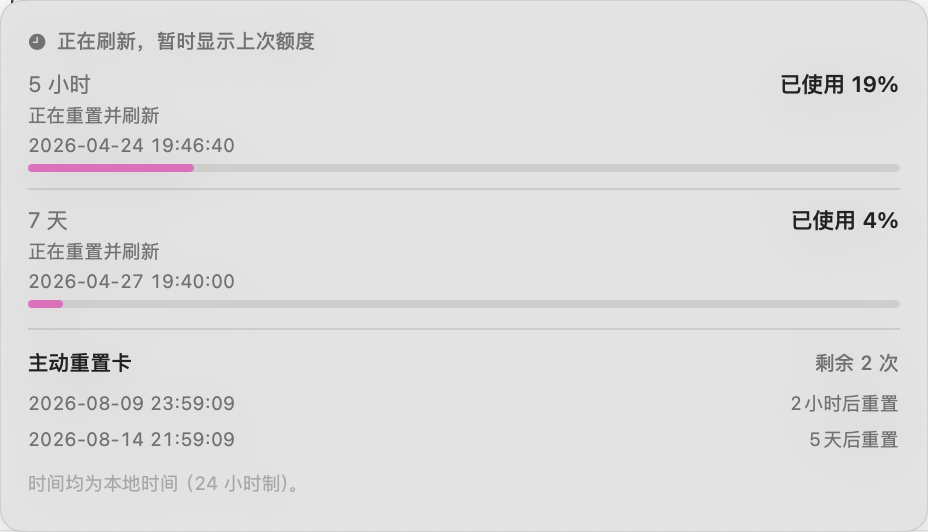
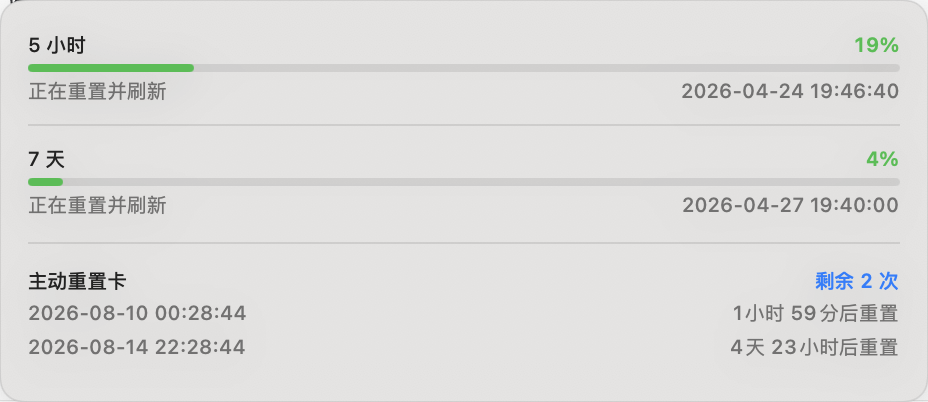
Align Codex widget details with menu quota rows

diff --git a/QuotaMonitor/App/CodexQuotaOverlayView.swift b/QuotaMonitor/App/CodexQuotaOverlayView.swift
@@ -141,11 +141,6 @@ struct CodexQuotaOverlayDetailsView: View {
 
     let onHoverChanged: (Bool) -> Void
 
-    private let progressAccent = Color(
-        red: 0.94,
-        green: 0.46,
-        blue: 0.77)
-
     var body: some View {
         TimelineView(.periodic(from: .now, by: 60)) { context in
             let presentation = CodexQuotaOverlayPresentation.make(
@@ -160,11 +155,6 @@ struct CodexQuotaOverlayDetailsView: View {
 
             ScrollView(.vertical) {
                 VStack(alignment: .leading, spacing: 0) {
-                    if presentation.isCached {
-                        cachedNotice
-                            .padding(.bottom, 8)
-                    }
-
                     if let fiveHour = presentation.fiveHour {
                         quotaWindow(
                             title: L10n.quotaCardTitle5h,
@@ -190,11 +180,6 @@ struct CodexQuotaOverlayDetailsView: View {
                             resetCredits,
                             now: context.date)
                     }
-
-                    Text(L10n.codexOverlayLocalTimeNote)
-                        .font(.system(size: 9.5, weight: .regular))
-                        .foregroundStyle(.tertiary)
-                        .padding(.top, 10)
                 }
                 .padding(14)
                 .frame(maxWidth: .infinity, alignment: .topLeading)
@@ -220,82 +205,61 @@ struct CodexQuotaOverlayDetailsView: View {
         }
     }
 
-    private var cachedNotice: some View {
-        HStack(spacing: 5) {
-            Image(systemName: "clock.fill")
-                .font(.system(size: 8, weight: .semibold))
-            Text(L10n.codexOverlayDetailsCachedNotice)
-                .font(.system(size: 10, weight: .medium))
-        }
-        .foregroundStyle(.secondary)
-    }
-
     private func quotaWindow(
         title: String,
         metric: CodexQuotaOverlayMetric,
         now: Date
     ) -> some View {
         VStack(alignment: .leading, spacing: 3) {
-            HStack(spacing: 8) {
+            HStack(spacing: 6) {
                 Text(title)
-                    .foregroundStyle(.secondary)
-                Spacer(minLength: 8)
-                Text(metric.localizedPercentLabel)
-                    .fontWeight(.semibold)
-                    .foregroundStyle(.primary)
+                    .font(.caption.weight(.medium))
+                Spacer()
+                Text("\(metric.percent)%")
+                    .font(.caption.monospacedDigit().weight(.semibold))
+                    .foregroundStyle(quotaTintColor(metric))
+                    .accessibilityLabel(metric.localizedPercentLabel)
             }
-            .font(.system(size: 11))
 
-            Text(resetCountdown(for: metric, now: now))
-                .font(.system(size: 9.5).monospacedDigit())
-                .foregroundStyle(.secondary)
-                .lineLimit(1)
+            QuotaUsageProgressBar(
+                value: Double(metric.percent) / 100,
+                usedPercent: Double(metric.usedPercent),
+                accessibilityText: metric.localizedPercentLabel)
 
-            Text(CodexQuotaOverlayTimeFormatting.localDateTime(
-                metric.resetAt))
-            .font(.system(size: 9.5).monospacedDigit())
+            HStack(spacing: 4) {
+                Text(resetCountdown(for: metric, now: now))
+                Spacer(minLength: 8)
+                Text(CodexQuotaOverlayTimeFormatting.localDateTime(
+                    metric.resetAt))
+            }
+            .font(.caption2)
             .foregroundStyle(.secondary)
             .lineLimit(1)
-
-            GeometryReader { geometry in
-                ZStack(alignment: .leading) {
-                    Capsule()
-                        .fill(.primary.opacity(0.10))
-                    Capsule()
-                        .fill(progressAccent)
-                        .frame(
-                            width: geometry.size.width
-                                * CGFloat(metric.percent) / 100)
-                }
-            }
-            .frame(height: 4)
-            .accessibilityElement()
-            .accessibilityLabel(metric.localizedPercentLabel)
         }
+        .padding(.vertical, 2)
     }
 
     private func resetCreditsSection(
         _ resetCredits: CodexQuotaOverlayResetCreditsPresentation,
         now: Date
     ) -> some View {
-        VStack(alignment: .leading, spacing: 0) {
-            HStack(spacing: 8) {
+        VStack(alignment: .leading, spacing: 3) {
+            HStack(spacing: 6) {
                 Text(L10n.codexResetCardsTitle)
-                    .font(.system(size: 10.5, weight: .semibold))
-                Spacer(minLength: 8)
+                    .font(.caption.weight(.medium))
+                Spacer()
                 Text(L10n.codexResetCardsAvailable(
                     resetCredits.availableCount))
-                    .font(.system(size: 10, weight: .medium).monospacedDigit())
-                    .foregroundStyle(.secondary)
+                    .font(.caption.monospacedDigit().weight(.semibold))
+                    .foregroundStyle(.blue)
             }
 
             if resetCredits.expirations.isEmpty {
                 Text(L10n.codexResetCardsExpiryUnavailable)
-                    .font(.system(size: 9.5))
-                    .foregroundStyle(.tertiary)
-                    .padding(.top, 6)
+                    .font(.caption2)
+                    .foregroundStyle(.secondary)
             } else {
-                VStack(spacing: 6) {
+                VStack(spacing: 4) {
                     ForEach(
                         Array(resetCredits.expirations.enumerated()),
                         id: \.offset
@@ -306,13 +270,18 @@ struct CodexQuotaOverlayDetailsView: View {
                             Spacer(minLength: 8)
                             Text(resetCountdown(to: expiration, now: now))
                         }
-                        .font(.system(size: 9.5).monospacedDigit())
+                        .font(.caption2)
                         .foregroundStyle(.secondary)
                     }
                 }
-                .padding(.top, 8)
             }
         }
+        .padding(.vertical, 2)
+    }
+
+    private func quotaTintColor(_ metric: CodexQuotaOverlayMetric) -> Color {
+        QuotaUsageStyle.tintColor(
+            forUsedPercent: Double(metric.usedPercent))
     }
 
     private func resetCountdown(

diff --git a/Tests/QuotaMonitorTests/CodexQuotaOverlayTests.swift b/Tests/QuotaMonitorTests/CodexQuotaOverlayTests.swift
@@ -221,17 +221,29 @@ struct CodexQuotaOverlayTests {
 
         #expect(CodexQuotaOverlayLayout.detailsContentHeight(
             presentation: presentation,
-            resetCredits: nil) == 167)
+            resetCredits: nil) == 129)
         #expect(CodexQuotaOverlayLayout.detailsContentHeight(
             presentation: presentation,
-            resetCredits: resetCredits) == 264)
+            resetCredits: resetCredits) == 218)
         #expect(CodexQuotaOverlayLayout.detailsFrame(
             in: CGRect(x: 0, y: 0, width: 1_920, height: 1_080),
-            contentHeight: 264) == CGRect(
+            contentHeight: 218) == CGRect(
                 x: 12,
                 y: 45,
                 width: 464,
-                height: 264))
+                height: 218))
+
+        let cached = CodexQuotaOverlayPresentation.make(
+            snapshot: snapshot(
+                capturedOffset: -(16 * 60),
+                primary: window(usedPercent: 37),
+                secondary: window(usedPercent: 18)),
+            displayMode: .used,
+            now: now)
+        #expect(cached.isCached)
+        #expect(CodexQuotaOverlayLayout.detailsContentHeight(
+            presentation: cached,
+            resetCredits: nil) == 129)
         #expect(CodexQuotaOverlayLayout.detailsFrame(
             in: CGRect(x: -1_200, y: 200, width: 600, height: 320),
             contentHeight: 300) == CGRect(

diff --git a/QuotaMonitor/App/CodexQuotaOverlayModel.swift b/QuotaMonitor/App/CodexQuotaOverlayModel.swift
@@ -285,26 +285,19 @@ enum CodexQuotaOverlayLayout {
         guard windowCount > 0 else { return 0 }
 
         var height: CGFloat = 28
-        if presentation.isCached {
-            height += 22
-        }
-        height += CGFloat(windowCount) * 50
+        height += CGFloat(windowCount) * 42
         height += CGFloat(max(0, windowCount - 1)) * 17
 
         if let resetCredits {
-            height += 21 + 14
+            height += 21 + 18
             if !resetCredits.expirations.isEmpty {
-                height += 8
-                height += CGFloat(resetCredits.expirations.count) * 14
-                height += CGFloat(max(0, resetCredits.expirations.count - 1)) * 6
+                height += 3
+                height += CGFloat(resetCredits.expirations.count) * 13
+                height += CGFloat(max(0, resetCredits.expirations.count - 1)) * 4
             } else {
-                height += 20
+                height += 16
             }
         }
-
-        // Every absolute timestamp in the card uses local time, so keep the
-        // same explanatory footer the previous inline widget provided.
-        height += 22
         return ceil(max(104, height))
     }
 

diff --git a/QuotaMonitor/Features/Shared/QuotaUsageStyle.swift b/QuotaMonitor/Features/Shared/QuotaUsageStyle.swift
@@ -1,0 +1,37 @@
+import SwiftUI
+
+enum QuotaUsageStyle {
+    static func tintColor(forUsedPercent usedPercent: Double) -> Color {
+        switch usedPercent {
+        case ..<60: .green
+        case ..<85: .orange
+        default: .red
+        }
+    }
+}
+
+struct QuotaUsageProgressBar: View {
+    let value: Double
+    let usedPercent: Double
+    let accessibilityText: String
+
+    var body: some View {
+        GeometryReader { geometry in
+            ZStack(alignment: .leading) {
+                Capsule()
+                    .fill(.primary.opacity(0.10))
+                Capsule()
+                    .fill(QuotaUsageStyle.tintColor(
+                        forUsedPercent: usedPercent))
+                    .frame(width: geometry.size.width * clampedValue)
+            }
+        }
+        .frame(height: 4)
+        .accessibilityElement()
+        .accessibilityLabel(Text(accessibilityText))
+    }
+
+    private var clampedValue: Double {
+        min(max(value, 0), 1)
+    }
+}

diff --git a/QuotaMonitor/Core/Localization/L10n.swift b/QuotaMonitor/Core/Localization/L10n.swift
@@ -108,10 +108,6 @@ enum L10n {
         t(en: "Hover or press to show quota and reset details.",
           zh: "悬停或按下可显示额度与重置详情。")
     }
-    static var codexOverlayDetailsCachedNotice: String {
-        t(en: "Showing the last saved quota while refreshing",
-          zh: "正在刷新，暂时显示上次额度")
-    }
     static func codexOverlayRemaining(_ percent: Int) -> String {
         t(en: "\(percent)% remaining", zh: "剩余 \(percent)%")
     }
@@ -124,11 +120,6 @@ enum L10n {
     static var codexOverlayResetRefreshing: String {
         t(en: "Resetting · refreshing", zh: "正在重置并刷新")
     }
-    static var codexOverlayLocalTimeNote: String {
-        t(en: "Times use local time (24-hour clock).",
-          zh: "时间均为本地时间（24 小时制）。")
-    }
-
     // MARK: - menu-bar label style
 
     static var menuBarStyleLabel: String { t(en: "Menu bar style", zh: "菜单栏样式") }

diff --git a/QuotaMonitor/Features/MenuBar/QuotaRow.swift b/QuotaMonitor/Features/MenuBar/QuotaRow.swift
@@ -53,8 +53,10 @@ struct QuotaRow: View {
                     .font(.caption.monospacedDigit().weight(.semibold))
                     .foregroundStyle(tintColor)
             }
-            ProgressView(value: progressValue)
-                .tint(tintColor)
+            QuotaUsageProgressBar(
+                value: progressValue,
+                usedPercent: usedPercent,
+                accessibilityText: "\(Int(displayPercent))%")
             HStack(spacing: 4) {
                 Text(L10n.resetsRelative(relativeReset))
                     .font(.caption2)
@@ -91,11 +93,7 @@ struct QuotaRow: View {
     }
 
     private var tintColor: Color {
-        switch usedPercent {
-        case ..<60: .green
-        case ..<85: .orange
-        default: .red
-        }
+        QuotaUsageStyle.tintColor(forUsedPercent: usedPercent)
     }
 
     private var displayPercent: Double {

diff --git a/CHANGELOG.zh-Hans.md b/CHANGELOG.zh-Hans.md
@@ -26,7 +26,7 @@ appcast 中按系统语言切换的双语更新说明。
 
 #### Summary
 
-- Codex 挂件详情现在只显示“已用”或“剩余”其中一项，并与应用内统一的百分比设置保持一致，不再重复显示两种数值。
+- Codex 挂件详情现在只显示“已用”或“剩余”其中一项，并在字体、文案、进度条样式和健康度颜色上与菜单弹窗保持一致，不再重复数值或显示多余状态说明。
 - 菜单弹窗中的额度重置时间、重置卡到期时间和会话更新时间现在会在重复渲染时保持流畅，同时维持现有本地化措辞。
 - 全年 Token 活跃度热图现在会在 Dashboard 默认大小下完整舒展显示，末尾月份保持可读，并仅在更窄窗口中启用横向滚动。
 - Codex 现在会通过跟随窗口的原生挂件显示 5 小时和每周额度；悬停或点击即可查看剩余额度、重置时间与主动重置卡，而且不需要调试端口，也不会重启 Codex。
@@ -74,7 +74,7 @@ appcast 中按系统语言切换的双语更新说明。
 
 ### 修复
 
-- **统一 Codex 挂件百分比。** 悬停详情卡现在只在右上角强调位置显示配置选中的“已用”或“剩余”百分比，进度条也会跟随同一方向。
+- **统一 Codex 挂件样式。** 悬停详情卡现在只在右上角强调位置显示配置选中的“已用”或“剩余”百分比，字体与绿／橙／红进度条均跟随菜单弹窗，并移除多余的刷新和本地时间说明。
 - **响应式 Token 活跃度热图。** 全年热图会在 Dashboard 默认宽度下使用紧凑布局，为末尾月份标签预留空间，并仅在更窄窗口中回退到横向滚动。
 - **私有 Beta 分段下载。** 通过授权的完整下载现在会返回正常完整响应；有效的单段字节范围会根据已校验请求与对象大小给出准确的 `Content-Range`，后缀范围也会转换成明确的偏移读取，即使存储未返回可用的范围元数据也能正常续传，格式错误的范围仍会安全拒绝。
 - **稳定的原生 Codex 额度。** 挂件会跟随当前 Codex 窗口，在 Codex 进入后台或关闭 Codex 跟踪时自动隐藏，避免启动阶段重复请求，刷新期间保留上次正确额度、过滤已经过期的主动重置卡并自动重试数据获取，不再要求用户重启，同时恢复旧版悬停详情卡中的用量、进度和重置时间。

diff --git a/CHANGELOG.md b/CHANGELOG.md
@@ -32,7 +32,7 @@ window copy.
 
 #### Summary
 
-- Codex widget details now show either used or remaining quota, matching the app-wide percentage setting without duplicating both values.
+- Codex widget details now show either used or remaining quota in the same type, wording, progress style, and health colors as the menu popover, without duplicate values or redundant status notes.
 - Menu-popover resets, reset-credit expirations, and Session update times now stay responsive during repeated rendering while preserving their current localized wording.
 - The yearly Token Activity heatmap now fits cleanly at the Dashboard's default size, keeps its final month readable, and scrolls only in narrower windows.
 - Codex now shows 5-hour and weekly quota in a native window-following widget; hovering or clicking reveals remaining usage, reset times, and reset cards without requiring a debugging port or restarting Codex.
@@ -80,7 +80,7 @@ window copy.
 
 ### Fixed
 
-- **Consistent Codex widget percentages.** The hover card now keeps one configured used-or-remaining percentage in its emphasized top-right position, with the progress bar following the same direction.
+- **Consistent Codex widget presentation.** The hover card now keeps one configured used-or-remaining percentage in its emphasized top-right position, matches the menu popover's typography and green/orange/red progress styling, and omits redundant refresh and local-time notes.
 - **Responsive Token Activity heatmap.** The full-year grid uses a compact layout at the default Dashboard width, reserves room for the final month label, and falls back to horizontal scrolling only in narrower windows.
 - **Private Beta range downloads.** Authenticated full downloads now return a normal complete response, while valid single byte ranges use the validated request and object size to produce an exact `Content-Range` even when storage omits usable range metadata; suffix requests are converted to explicit offset reads, and malformed ranges continue to fail closed.
 - **Stable native Codex quota.** The widget follows the active Codex window, hides automatically in the background or when Codex tracking is disabled, avoids a duplicate launch request, preserves the last good quota during refreshes, filters expired reset cards, retries data loading without requiring a restart, and restores the previous hover detail card with usage, progress, and reset timing.

diff --git a/docs/assets/pr/codex-sidebar-quota/README.md b/docs/assets/pr/codex-sidebar-quota/README.md
@@ -14,12 +14,14 @@ SHA-256:
 
 `single-percentage-used.png` is a privacy-cropped screenshot from the isolated
 fixture QA build. With the app-wide quota setting on Used, each detail row
-keeps only its configured percentage in the emphasized top-right position and
-the progress bar follows the same direction. No account identity or unrelated
+keeps only its configured percentage in the top-right position and matches the
+menu popover's caption hierarchy and green/orange/red progress styling. The
+shared progress bar follows the same display direction, while redundant
+refresh and local-time notes are omitted. No account identity or unrelated
 conversation content is included.
 
 SHA-256:
[2 lines of base64/hex data omitted]
 
 ## Legacy reference
 
